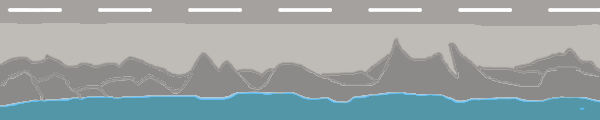
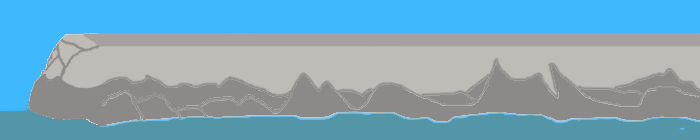
Changed runway to fit background better and enlarged from 600x120 to 700x140 + minor editing on Background.png to accomodate Runway.png

diff --git a/game.cpp b/game.cpp
@@ -27,7 +27,7 @@ Game::Game()
 
     landingStrip = new QGraphicsPixmapItem();
     landingStrip->setPixmap(QPixmap(":/Graphics/Graphics/Runway.png"));
-    landingStrip->setPos(sceneWidth - 500, screenHeight - 244);
+    landingStrip->setPos(sceneWidth - 700, screenHeight -315 );
     scene->addItem(landingStrip);
 
     plane = new Plane();

diff --git a/plane.cpp b/plane.cpp
@@ -17,7 +17,7 @@ extern double RC;
 Plane::Plane()
 {
     setRect(0,0,50,30);
-    setPos(50, screenHeight /3);
+    setPos(4000, screenHeight /3);
     setRotation(planeAngle);
     setFlags(QGraphicsItem::ItemIsFocusable);
     setFocus();
